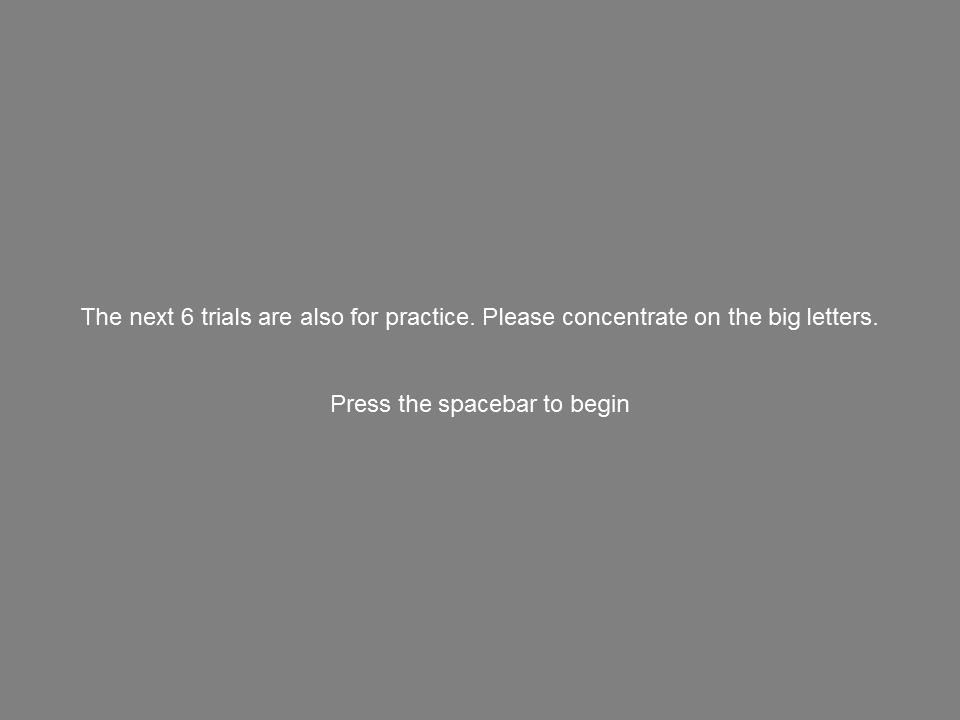
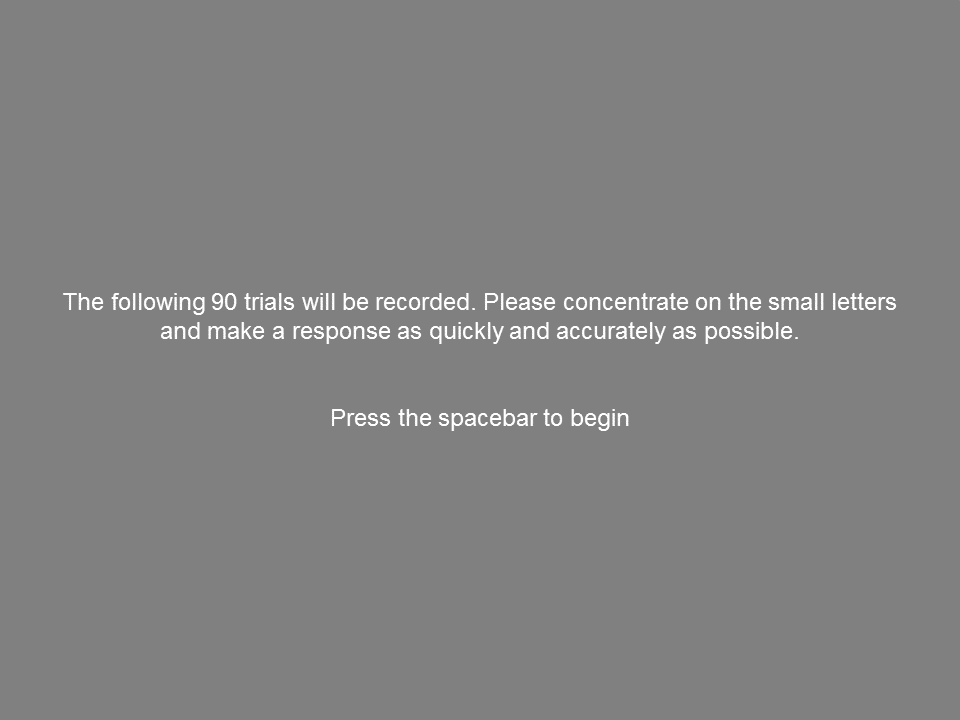
final small changes

Changed region(s): [[0.0625, 0.3972, 0.9375, 0.4889], [0.3438, 0.55, 0.6562, 0.6111]]

diff --git a/experiment_part.py b/experiment_part.py
@@ -105,6 +105,8 @@ class ExperimentPart(object):
 
     def export_results(self, filename, *extralines):
 
+        filename = os.path.abspath(filename)
+        
         while os.path.isfile(filename):
             name, ext = os.path.splitext(filename)
             filename = name + '_new' + ext
@@ -249,7 +251,10 @@ class ContrastDetection(ExperimentPart):
         if self.responses:
         # take average of positive responses to exprimental trials (exclude catch)
             values = [i[3] for i in self.responses if i[1] and i[4]]
-            col = np.mean(values, axis = 0)
+            if values:
+                col = np.mean(values, axis = 0)
+            else:
+                col = self.colours_dict['fg_grey']
         else:
             col = self.colours_dict['fg_grey']
 
@@ -321,7 +326,7 @@ class ContrastDetection(ExperimentPart):
 
         while detects < self.n_trials:
 
-            if i < 5:
+            if i < 10:
                 kind = 1
             else:
                 kind = np.random.choice([0, 1], p = [self.p_catch, 1 - self.p_catch])
@@ -585,7 +590,6 @@ class FreeChoiceExperiment(ExperimentPart):
         elif key[0] == 'escape':
             response = 'stop'
 
-        # self.question.draw()
         self.left_resp.draw()
         self.right_resp.draw()
         self.win.flip()
@@ -813,12 +817,12 @@ class SelectiveAttentionExperiment(DividedAttentionExperiment):
             return
         logger.info('started the experiment')
 
-        total_blocks = self.n_practice_blocks + self.n_blocks
+        total_blocks = 2 * self.n_blocks # practice block for every experimental
         if self.local_first:
             cond_seq = ['local' if i%2==0 else 'global' for i in range(total_blocks)]
         else:
             cond_seq = ['global' if i%2==0 else 'local' for i in range(total_blocks)]
-        type_seq = ['practice'] * self.n_practice_blocks + ['experimental'] * self.n_blocks
+        type_seq = ['practice', 'experimental'] * self.n_blocks
         blocks_seq = zip(type_seq, cond_seq) # (practice, global), (experimental, local) etc.
         logger.info('made blocks sequence: {}'.format(blocks_seq))
 

diff --git a/app.py b/app.py
@@ -121,11 +121,15 @@ class Application(object):
         np.random.seed(1)
 
         # Get participant's id
-        _id = self.id.get()
-        if _id == "Participant's id":
+        _id = self.id.get().rstrip()
+        if has_illegal_chars(_id):
+            showwarning('Illegal charater', 'Avoid /\\:*?"<>| in the name')
+            return
+        elif _id in ["Participant's id", '']:
             showwarning('Missing id', "Enter participant's id")
             return
 
+        # Make directories
         self.dir = os.path.join('.', 'data', _id)
         if os.path.isdir(self.dir):
             ans = askyesno("Participant's id", '{} already exists. Continue experiment with this participant?'.format(_id))

diff --git a/tools.py b/tools.py
@@ -6,6 +6,17 @@ import os
 import time
 import csv
 
+def has_illegal_chars(s):
+
+    illegal = '/\\:*?"<>|'
+    
+    for i in illegal:
+        if i in s:
+            return True
+            
+    return False
+
+    
 def load_monitor(params):
 
     mon = monitors.Monitor(name = params['monitor_name'])
